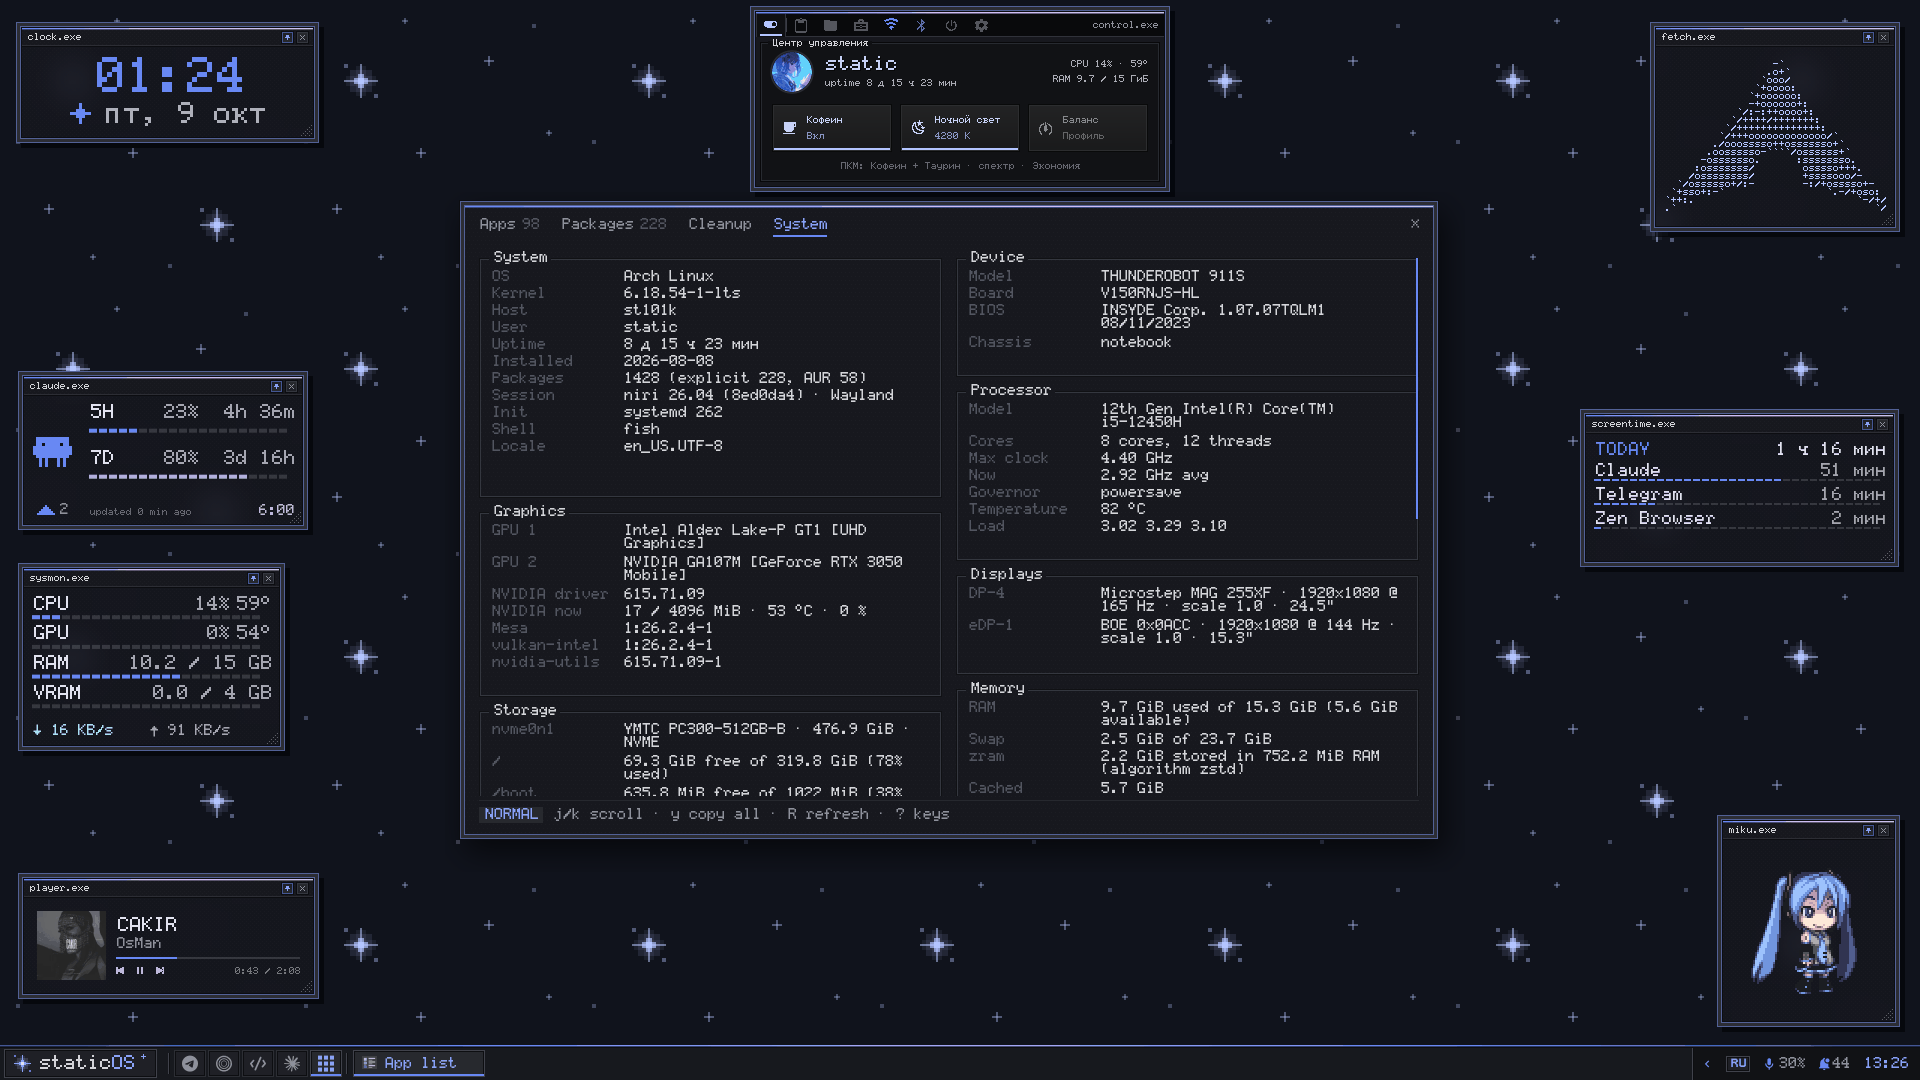
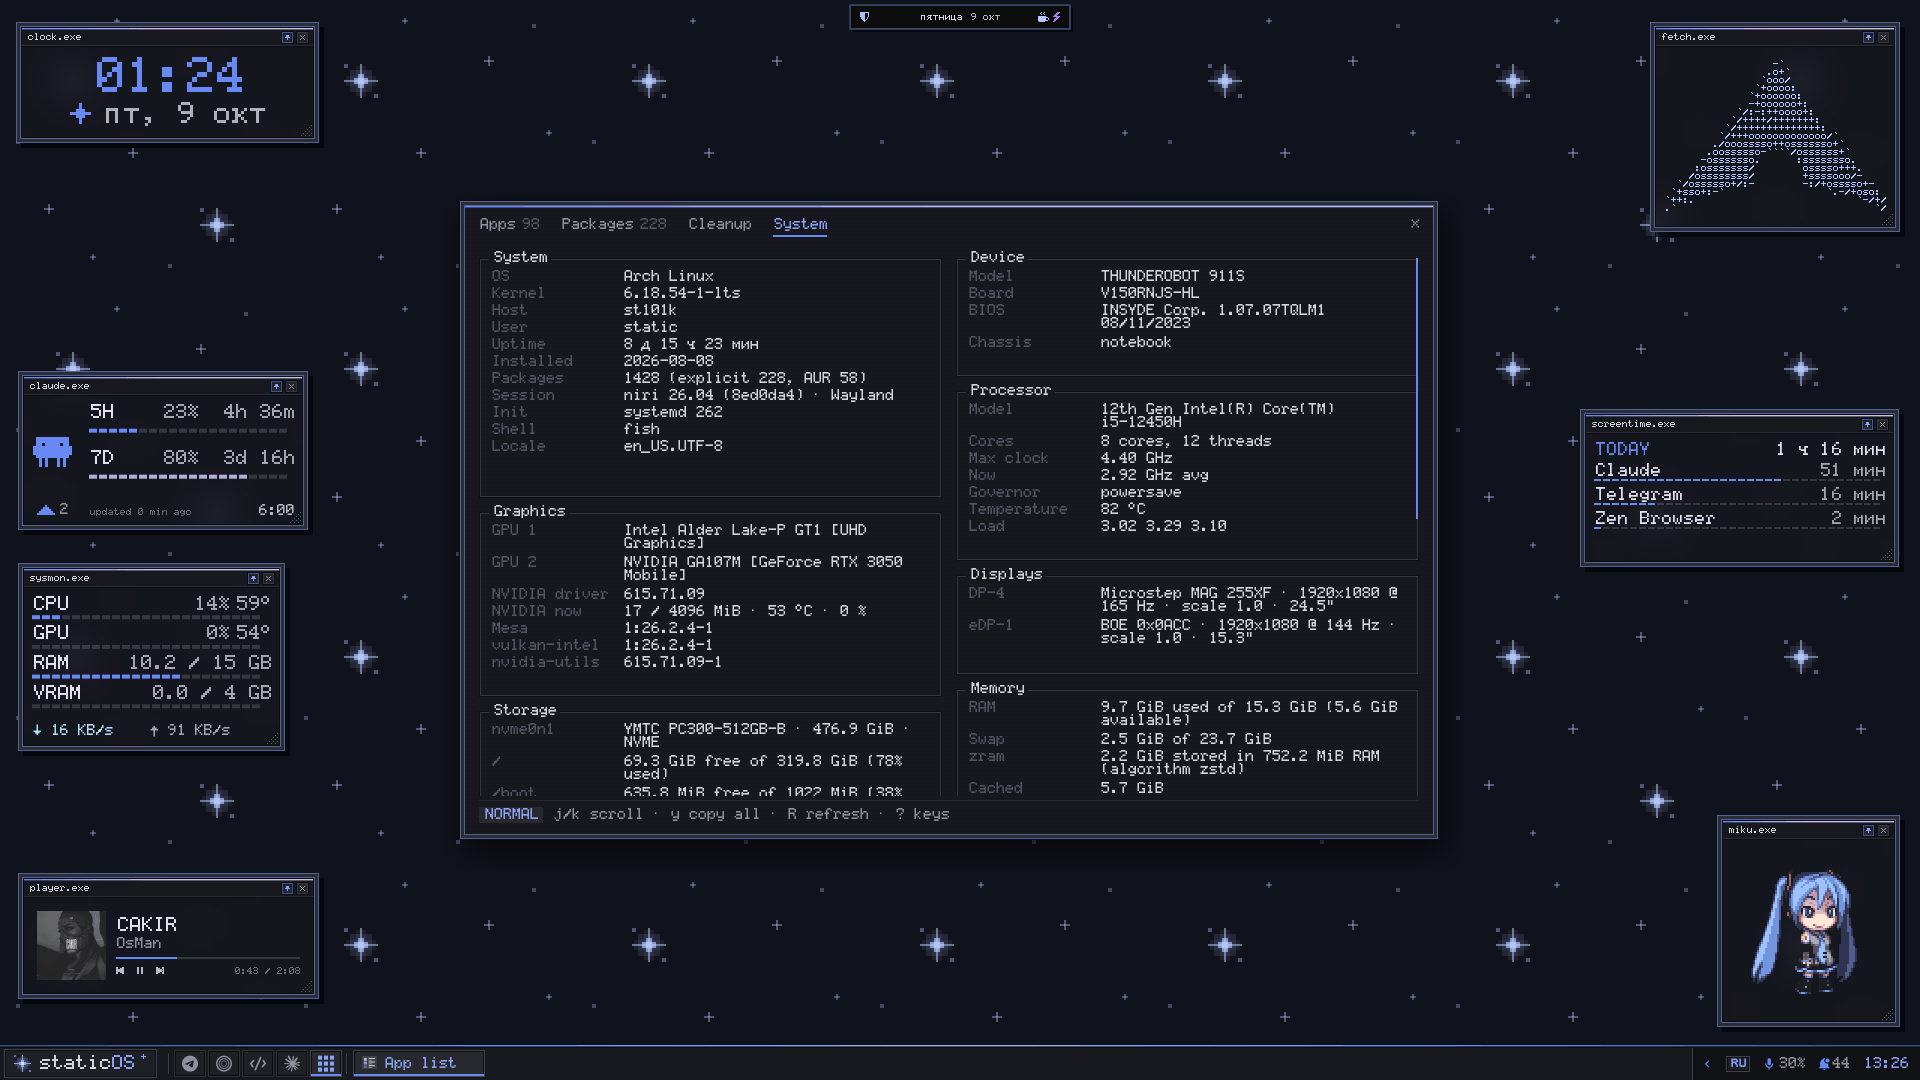
Island: WhatsApp calls; main screenshot shows the collapsed capsule

Changed region(s): [[0.375, 0.0, 0.625, 0.1833], [0.4688, 0.0611, 0.5, 0.0917]]

diff --git a/.config/hypr/scripts/island.py b/.config/hypr/scripts/island.py
@@ -198,7 +198,7 @@ G_POMO, G_BREAK, G_NOTE, G_REC, G_SKIP = "\U000f051f", "\U000f0176", "\U000f075a
 G_MIC, G_MIC_OFF, G_TIMER, G_CLIP, G_PICK = "\U000f036c", "\U000f036d", "\U000f051b", "\U000f0192", "\U000f020a"
 G_TOOLS = "\U000f09ac"                 # md-toolbox; в островке — пикселями (PIX_BMP)
 G_SHOT, G_MEMO, G_OPEN, G_CALL, G_BOARD = "\U000f019e", "\U000f039a", "\U000f03cc", "\U000f03f2", "\U000f014c"
-G_TG, G_DISCORD = "", "\U000f066f"
+G_TG, G_DISCORD, G_WA = "", "\U000f066f", "\U000f05a3"
 
 G_PLUS, G_COG = "\U000f0415", "\U000f0493"
 G_NUDGE = "\U000f018d"                # md-console; в островке — пикселями (PIX_BMP)
@@ -220,7 +220,7 @@ G_VOL, G_VOL_OFF, G_WAVE = "\U000f057e", "\U000f0581", "\U000f0e4e"
 # с выбором собственного времени. Запись, Пипетка и Снимок в один общий блок. Заметку,
 # Помидор в отдельный блок» — вместо одной страницы «Инструменты» (tools) две: capture и focus.
 PAGES = {
-    "call":    ("Звонок", "Telegram/Discord: длительность, микрофон звонка, громкость; голосовое — живая волна", "live"),
+    "call":    ("Звонок", "Telegram/Discord/WhatsApp: длительность, микрофон звонка, громкость; голосовое — живая волна", "live"),
     "music":   ("Музыка", "где играет (YouTube, Яндекс Музыка…), время, громкость приложения", "live"),
     "pomo":    ("Помидор", "сколько осталось, задача, пауза, пропуск, стоп", "live"),
     "timer":   ("Таймер", "идущие таймеры hub; «+» — ещё один, с виджетом timer.exe, как из Telegram", "always"),
@@ -624,7 +624,8 @@ class Music:
 
 CALL_APPS = (("telegram", "Telegram", G_TG), ("ayugram", "Telegram", G_TG), ("64gram", "Telegram", G_TG),
              ("discord", "Discord", G_DISCORD), ("vesktop", "Discord", G_DISCORD),
-             ("webcord", "Discord", G_DISCORD), ("equibop", "Discord", G_DISCORD), ("legcord", "Discord", G_DISCORD))
+             ("webcord", "Discord", G_DISCORD), ("equibop", "Discord", G_DISCORD), ("legcord", "Discord", G_DISCORD),
+             ("zapzap", "WhatsApp", G_WA), ("whatsapp", "WhatsApp", G_WA), ("wasistlos", "WhatsApp", G_WA))
 
 
 CALLS_FILE = os.path.join(RUN, "jarvis-island-calls.json")
@@ -660,12 +661,17 @@ def scan_calls():
                                                      "node.name", "media.name", "application.id")).lower()
         if METER_NAME in hay:
             return None
+        # и командная строка родителя: ZapZap пишет микрофон из QtWebEngineProcess («Chromium
+        # input»), имя приложения есть только у его родителя (20.10.2026: звонок WhatsApp не виден)
         try:
             pid = int(pr.get("application.process.id") or 0)
-            if pid:
+            for _ in range(2):
+                if pid <= 1:
+                    break
                 hay += " " + open("/proc/%d/cmdline" % pid, "rb").read().replace(b"\0", b" ").decode(
                     "utf-8", "replace").lower()
-        except (OSError, ValueError):
+                pid = int(open("/proc/%d/stat" % pid).read().rsplit(")", 1)[1].split()[1])
+        except (OSError, ValueError, IndexError):
             pass
         return next(((name, icon) for key, name, icon in CALL_APPS if key in hay), None)
     playing = {a[0] for a in (app_of(o.get("properties") or {}) for o in si if isinstance(si, list)) if a}
@@ -6233,10 +6239,11 @@ class App:
         self.GLib.timeout_add(250, lambda: self.refresh() and False)
 
     def focus_call(self):
-        """Окно звонка: Telegram или Discord — фокус через niri по app_id."""
+        """Окно звонка: Telegram, Discord или WhatsApp — фокус через niri по app_id."""
         names = [n.lower() for n in (self.calls.calls if self.calls else {})]
         keys = {"telegram": ("telegram", "ayugram", "64gram"), "discord": ("discord", "vesktop", "webcord",
-                                                                           "equibop", "legcord")}
+                                                                           "equibop", "legcord"),
+                "whatsapp": ("zapzap", "whatsapp", "wasistlos")}
         want = [k for n in names for k in keys.get(n, ())]
         for w in niri_json("windows") or []:
             app = (w.get("app_id") or "").lower()
